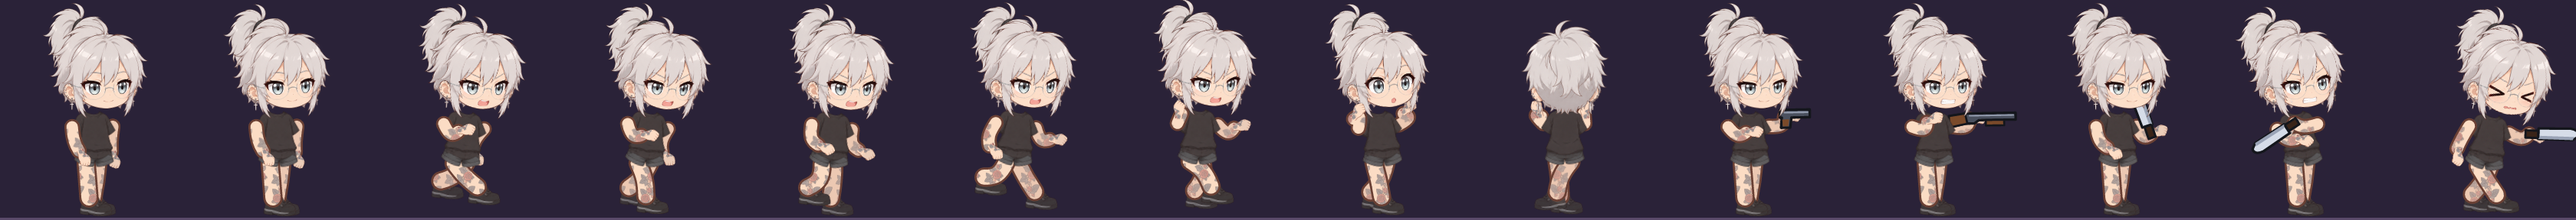
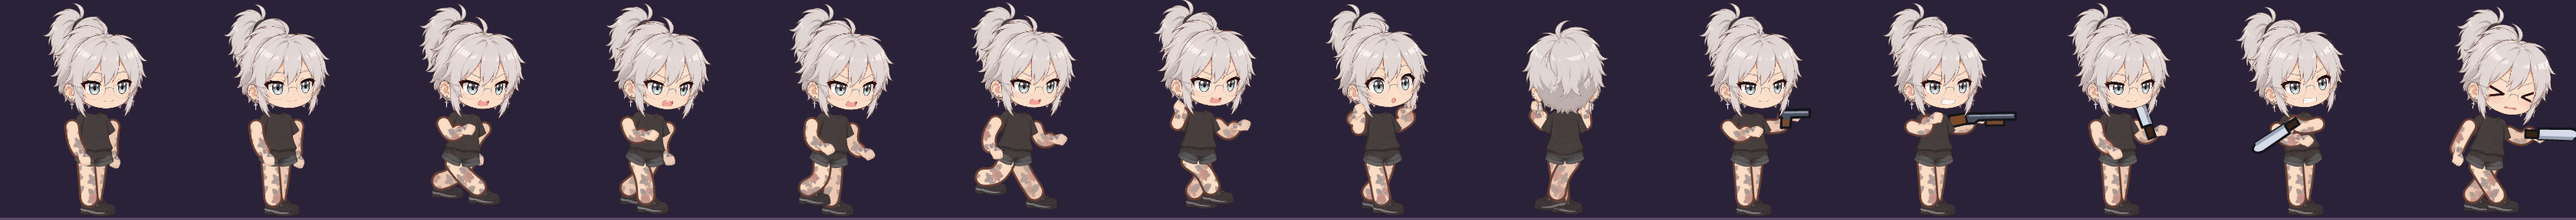
Draw the player 1.5x bigger
Player sheets are rebuilt from the existing Scenario art at 1.5x the
pixel density (150x180 px cells, 16 a row so they stay under 4096 px
tall), so the player is 30x36 world units and stays sharp. His body is
12x30, which still fits under two-tile ceilings (the attic jacket corner).
Gun muzzle, machete reach, slash and blade hurtbox scale with him; the
HUD face stays the same size.

Claude-Session: https://claude.ai/code/session_01PyyKyUuXsnpWkKySPvDS7v

diff --git a/src/scenes/GameScene.ts b/src/scenes/GameScene.ts
@@ -11,6 +11,7 @@ import {
   GAME_HEIGHT,
   GAME_WIDTH,
   PLAYER,
+  PLAYER_SCALE,
   REG,
   RENDER_SCALE,
   SCORE,
@@ -27,7 +28,7 @@ import {
   type WeaponStats,
 } from '../config';
 import { pad } from '../input/VirtualPad';
-import { playerAnim, playerClip } from '../skins';
+import { PLAYER_PX, playerAnim, playerClip } from '../skins';
 import type { Clip } from '../clips';
 import { LEVEL_1, type BackStyle, type Level } from '../levels/level1';
 
@@ -333,7 +334,7 @@ export class GameScene extends Phaser.Scene {
             break;
           }
           case 'P':
-            this.spawn.set(cx, bottom - 12);
+            this.spawn.set(cx, bottom - 12 * PLAYER_SCALE);
             break;
           case 'B':
             this.addLooseBook(tx, ty);
@@ -362,10 +363,12 @@ export class GameScene extends Phaser.Scene {
       });
     });
 
-    // The 'player' texture is high-res (RENDER_SCALE pixels per unit), so the sprite is
-    // scaled down, and its body is sized in the texture's pixels: 8x22 units, 6 in and 2 down.
+    // The 'player' texture is high-res (PLAYER_PX pixels per unit of the 20x24 frame) and the
+    // sprite is drawn at 1 / RENDER_SCALE, so he is PLAYER_SCALE times the frame. His body is
+    // sized in the texture's pixels: 8x20 units of the frame, 6 in and 4 down (12x30 in the
+    // world). That leaves the top of his hair out, so he still fits under a ceiling two tiles up.
     this.player = this.physics.add.sprite(this.spawn.x, this.spawn.y, 'player', 0).setScale(1 / RENDER_SCALE);
-    (this.player.body as Body).setSize(8 * RENDER_SCALE, 22 * RENDER_SCALE).setOffset(6 * RENDER_SCALE, 2 * RENDER_SCALE);
+    (this.player.body as Body).setSize(8 * PLAYER_PX, 20 * PLAYER_PX).setOffset(6 * PLAYER_PX, 4 * PLAYER_PX);
     this.player.setCollideWorldBounds(true).setDepth(10);
 
     const world: ZombieWorld = (this.world = {
@@ -1088,8 +1091,8 @@ export class GameScene extends Phaser.Scene {
     this.lastShotAt = time;
     this.fired = true;
     const dir = this.player.flipX ? -1 : 1;
-    const x = this.player.x + dir * 10;
-    const y = this.player.y + 1;
+    const x = this.player.x + dir * 10 * PLAYER_SCALE;
+    const y = this.player.y + PLAYER_SCALE;
     for (let i = 0; i < weapon.pellets; i++) {
       // Pellets fan out evenly from the top of the spread to the bottom.
       const angle = weapon.pellets === 1 ? 0 : weapon.spread * (i / (weapon.pellets - 1) - 0.5);
@@ -1121,8 +1124,8 @@ export class GameScene extends Phaser.Scene {
       const front = dir > 0 ? body.right : body.left;
       const hitbox = new Phaser.Geom.Rectangle(Math.min(front, front + dir * blade.reach), body.top - 4, blade.reach, body.height + 4);
 
-      const slash = this.add.image(front + dir * 6, p.y, 'slash').setFlipX(dir < 0).setDepth(11).setAlpha(0.9);
-      this.tweens.add({ targets: slash, alpha: 0, x: slash.x + dir * 4, scaleY: 1.15, duration: 160, onComplete: () => slash.destroy() });
+      const slash = this.add.image(front + dir * 6 * PLAYER_SCALE, p.y, 'slash').setScale(PLAYER_SCALE).setFlipX(dir < 0).setDepth(11).setAlpha(0.9);
+      this.tweens.add({ targets: slash, alpha: 0, x: slash.x + dir * 4 * PLAYER_SCALE, scaleY: 1.15 * PLAYER_SCALE, duration: 160, onComplete: () => slash.destroy() });
 
       for (const group of this.enemyGroups()) {
         for (const enemy of [...group.getChildren()] as Sprite[]) {

diff --git a/src/skins.ts b/src/skins.ts
@@ -1,5 +1,5 @@
 import Phaser from 'phaser';
-import { DEFAULT_SKIN, REG, RENDER_SCALE, SKINS, type SkinId, type SkinStats, type WeaponId } from './config';
+import { DEFAULT_SKIN, PLAYER_SCALE, REG, RENDER_SCALE, SKINS, type SkinId, type SkinStats, type WeaponId } from './config';
 import { PLAYER_CLIPS, clipsEnd, createClipAnims, type Clip } from './clips';
 
 /**
@@ -8,18 +8,21 @@ import { PLAYER_CLIPS, clipsEnd, createClipAnims, type Clip } from './clips';
  * copied onto. Swapping skins repaints that canvas, so the player sprite and the HUD
  * face change at once without touching anything that uses them.
  *
- * The canvas is a grid of PLAYER_FRAME-sized frames at RENDER_SCALE pixels per world
- * unit, and the player sprite is drawn at 1 / RENDER_SCALE. A high-res skin (built by
+ * The canvas is a grid of PLAYER_FRAME-sized frames at PLAYER_PX pixels per unit of the
+ * 20x24 frame, and the player sprite is drawn at 1 / RENDER_SCALE, so he comes out
+ * PLAYER_SCALE times as big as the frame (30x36 world units). A high-res skin (built by
  * tools/art) is copied as it is. An old pixel-art skin (a strip of 20x24 frames from
  * tools/sprites.py) is scaled up frame by frame with crisp pixels.
  */
 const STORAGE_KEY = 'platformer.skin';
 /** One frame of an old pixel-art skin sheet. */
 const PIXEL_FRAME = { w: 20, h: 24 } as const;
+/** Pixels of the 'player' texture per unit of the 20x24 frame (the player is drawn PLAYER_SCALE times as big). */
+export const PLAYER_PX = RENDER_SCALE * PLAYER_SCALE;
 /** One frame of the 'player' texture, in high-res pixels. */
-export const PLAYER_FRAME = { w: PIXEL_FRAME.w * RENDER_SCALE, h: PIXEL_FRAME.h * RENDER_SCALE } as const;
-/** Frames per row in a high-res sheet (and the 'player' texture). */
-const COLUMNS = 10;
+export const PLAYER_FRAME = { w: PIXEL_FRAME.w * PLAYER_PX, h: PIXEL_FRAME.h * PLAYER_PX } as const;
+/** Frames per row in a high-res player sheet (and the 'player' texture): wide, so the sheet stays under 4096 px tall for phones. */
+const COLUMNS = 16;
 /** Frames 0-35 mean the same in every skin (see tools/sprites.py); high-res skins add in-betweens after them. */
 const SHARED_FRAMES = 36;
 /**
@@ -89,7 +92,7 @@ export function currentSkin(scene: Phaser.Scene): SkinId {
 /** Which part of frame 0 to show as the face in the HUD, for a skin, in high-res pixels. */
 export function faceCrop(id: SkinId): readonly [number, number, number, number] {
   const [x, y, w, h] = (SKINS[id] as SkinStats).face ?? PIXEL_FACE;
-  return [x * RENDER_SCALE, y * RENDER_SCALE, w * RENDER_SCALE, h * RENDER_SCALE];
+  return [x * PLAYER_PX, y * PLAYER_PX, w * PLAYER_PX, h * PLAYER_PX];
 }
 
 /** Repaints the 'player' texture with a skin and remembers the choice. */
@@ -103,7 +106,7 @@ export function applySkin(scene: Phaser.Scene, id: SkinId): void {
     ctx.imageSmoothingEnabled = true;
     ctx.drawImage(src, 0, 0);
   } else {
-    // Each pixel becomes a RENDER_SCALE square, so the old art stays crisp.
+    // Each pixel becomes a PLAYER_PX square, so the old art stays crisp.
     ctx.imageSmoothingEnabled = false;
     const count = Math.min(SHARED_FRAMES, Math.floor(src.width / PIXEL_FRAME.w));
     for (let i = 0; i < count; i++) {

diff --git a/src/scenes/HudScene.ts b/src/scenes/HudScene.ts
@@ -1,6 +1,6 @@
 import Phaser from 'phaser';
 import { HUD_HEIGHT, HUD_SCALE, HUD_WIDTH, REG, RENDER_SCALE, TEXT_RES, SKINS, WEAPONS, type WeaponId, type WeaponStats } from '../config';
-import { currentSkin, faceCrop, nextSkin } from '../skins';
+import { PLAYER_PX, currentSkin, faceCrop, nextSkin } from '../skins';
 import { pad, type PadButton } from '../input/VirtualPad';
 import type { HudMessage } from './GameScene';
 import { goToMenu } from './MenuScene';
@@ -34,7 +34,7 @@ export class HudScene extends Phaser.Scene {
     this.livesText = this.add.text(124, 2, '', style);
     // The player's face beside LIVES: it shows the skin being worn, and clicking or tapping it
     // (or pressing K) changes skin. It is the head of the player's first frame, so it follows the skin.
-    this.face = this.add.image(0, 0, 'player', 0).setOrigin(0, 0).setScale(1 / RENDER_SCALE);
+    this.face = this.add.image(0, 0, 'player', 0).setOrigin(0, 0).setScale(1 / PLAYER_PX);
     this.showFace();
     this.add.zone(100, 0, 64, 14).setOrigin(0, 0).setInteractive().on('pointerdown', () => this.changeSkin());
     this.input.keyboard?.on('keydown-K', () => this.changeSkin());
@@ -110,7 +110,7 @@ export class HudScene extends Phaser.Scene {
   /** Crops the player texture to the worn skin's face, with its top-left corner at (108, 0). */
   private showFace(): void {
     const [x, y, w, h] = faceCrop(currentSkin(this));
-    this.face.setCrop(x, y, w, h).setPosition(108 - x / RENDER_SCALE, -y / RENDER_SCALE);
+    this.face.setCrop(x, y, w, h).setPosition(108 - x / PLAYER_PX, -y / PLAYER_PX);
   }
 
   private changeSkin(): void {

diff --git a/src/config.ts b/src/config.ts
@@ -16,6 +16,12 @@ export const GAME_HEIGHT = 160;
  * as they can be. High-res art (tools/art) is rendered at this density.
  */
 export const RENDER_SCALE = 5;
+/**
+ * The player is drawn this much bigger than the 20x24-unit frame the rest of the art was
+ * designed around: his sheets are built at RENDER_SCALE * PLAYER_SCALE px per unit (see
+ * tools/art/build.mjs), so a frame is 30x36 units and stays sharp.
+ */
+export const PLAYER_SCALE = 1.5;
 /** The HUD keeps its own 320x200 layout, zoomed to fill the same canvas. */
 export const HUD_WIDTH = 320;
 export const HUD_HEIGHT = 200;
@@ -155,11 +161,11 @@ export const WEAPONS = {
     melee: true,
     damage: 20,
     cooldown: 380,
-    reach: 24,
+    reach: 24 * PLAYER_SCALE,
     swingTime: 260,
     hitAt: 90,
     knockback: 170,
-    hurtbox: { width: 4, height: 16 },
+    hurtbox: { width: 4 * PLAYER_SCALE, height: 16 * PLAYER_SCALE },
     icon: 'machete',
   },
 } satisfies Record<string, WeaponStats>;
